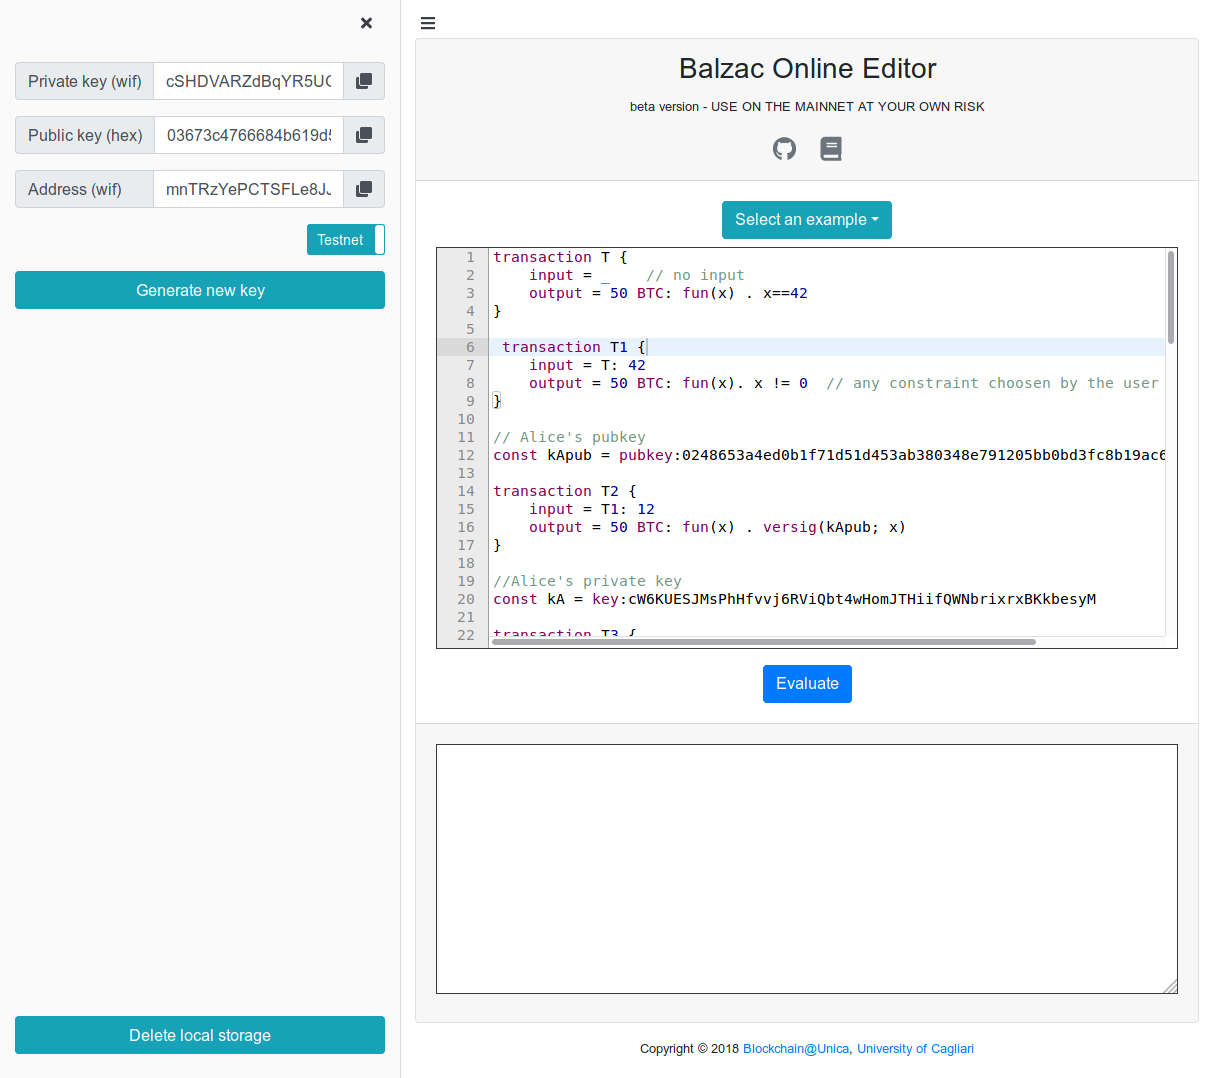
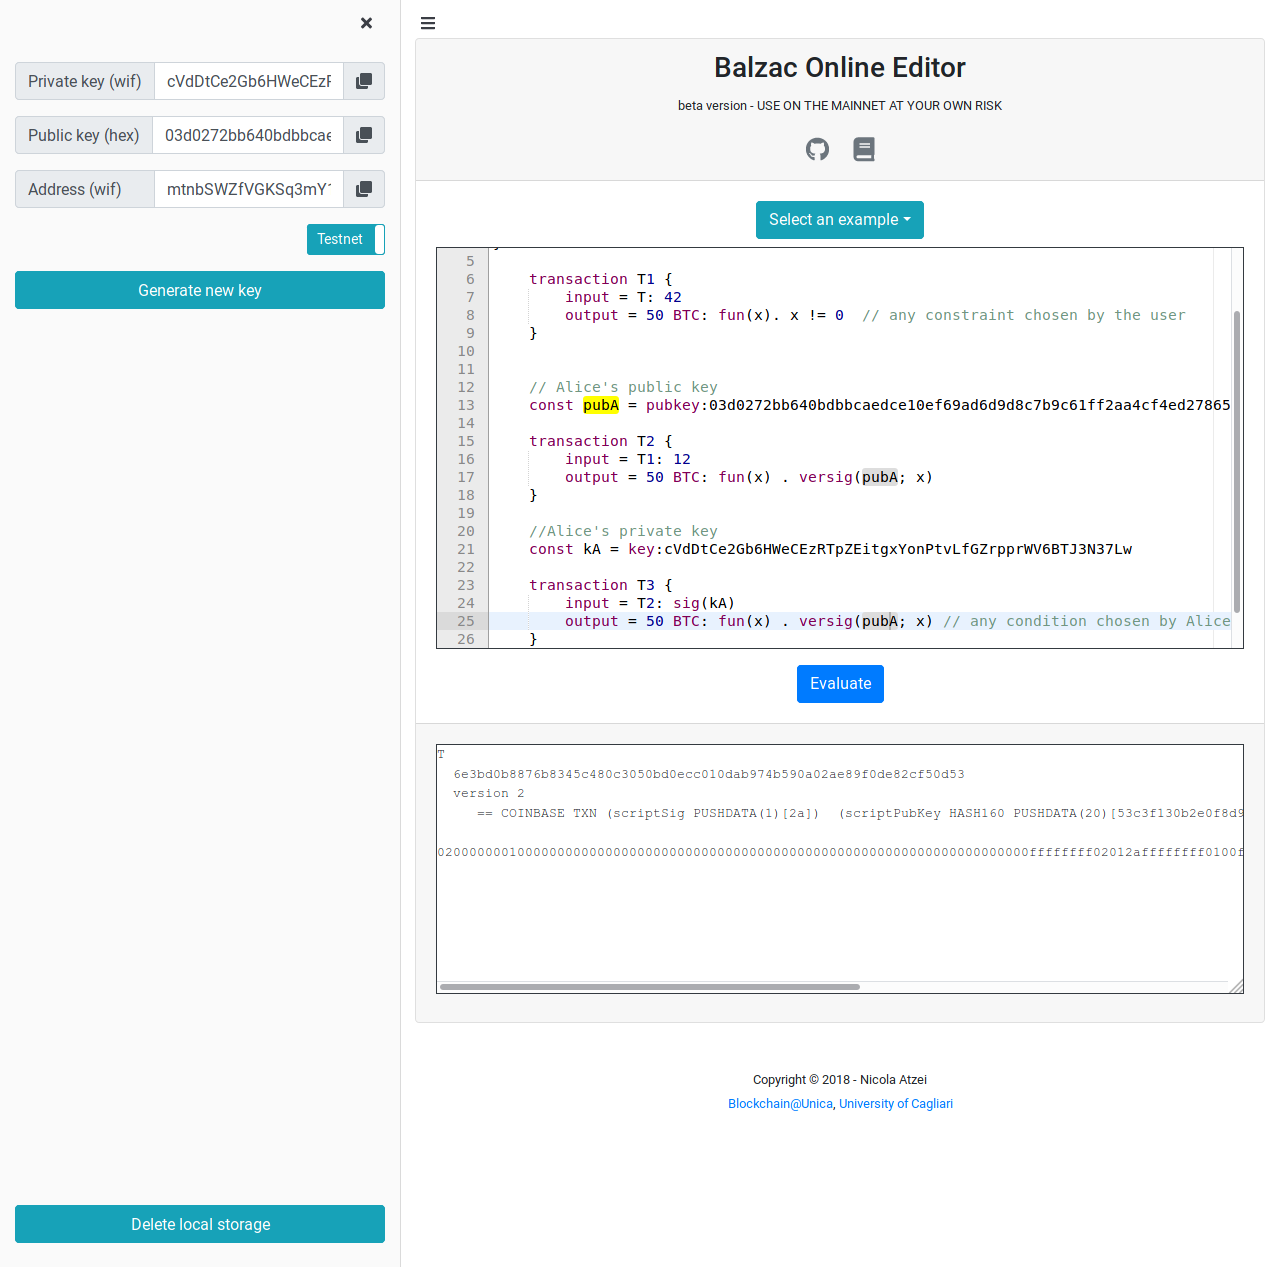
Update Balzac in a Nutshell

diff --git a/docs/source/nutshell.rst b/docs/source/nutshell.rst
@@ -31,18 +31,18 @@ An example of transaction with no inputs is the following:
 
     transaction T {
         input = _    // no input 
-        output = 50 BTC: fun(x) . x==42
+        output = 50 BTC: fun(x) . x == 42
     }
 
-The output field of transaction ``T`` contains a value, ``50 BTC``, and 
-an *output script*,  ``fun(x) . x==42``.
+The output field of transaction ``T`` contains a value, :btm:`50 BTC`, and 
+an *output script*,  :btm:`fun(x) . x==42`.
 This means that  50 bitcoins will  be transferred to any transaction
-which provides a *witness*  ``x``  such that ``x == 42``.
+which provides a *witness*  ``x``  such that :btm:`x == 42`.
 
 To append ``T`` to the Bitcoin blockchain,
 the placeholder ``_`` for the input must be replaced with the identifier
 of an unspent transaction already on the blockchain,
-which has at least 50 BTC.  
+which has at least 50 BTC.
 
 You can use the `web editor <http://blockchain.unica.it/balzac/>`_  to write
 |langname| transactions,   to check their syntax, and to compile them  into
@@ -56,45 +56,26 @@ To generate transactions for the main network (mainnet), one must specify the ne
     network mainnet  // default is testnet
 
 
-For instance, let us paste transaction ``T`` into the editor and then let us add command ``eval T`` to it. 
+For instance, let us paste transaction ``T`` into the editor and then let us add command :btm:`eval T` to it. 
 Now, if we hit the button [Compile], the web editor shows in the output box the transaction ``T``  in  Bitcoin (testnet) serialization format.
 
 .. figure:: _static/img/compiling_t.png
-    :scale: 100 %
+    :scale: 75 %
     :class: img-border
     :align: center
 
 The serialized transaction can  be sent to the Bitcoin network using the Bitcoin client command ``bitcoin-cli sendrawtransaction``.
-Before sending it, the unspecified input must be substituted
-by an actual transaction identifier, as in the following example:
+However, in order to be published, ``T`` must redeem a real transaction on the blockchain.
+In |langname|, it is possible to define a transaction using its hex format, for example:
 
 .. code-block:: btm
 
-        //actual Bitcoin transaction identifier 
-        const T_ref = txid:<actualBitcoinIdentifier>
+        const realT = tx:0000fa00120... // Hex of a real transaction
 
-        transaction T_alt {
-               input = T_ref: _
-               output = 50 BTC: fun(x) . x==42
+        transaction T {
+               input = realT: ...       // witness to redeem realT
+               output = 50 BTC: fun(x) . x == 42
         }
-
-.. Tip ::
-
-    Transaction identifiers have the same format *both in the testnet and
-    in the mainnet*. Our tool fetches the transaction body
-    by looking into the specified :btm:`network`. 
-    A common mistake is to look for a transaction id into the wrong
-    network.
-
-    Alternatively, you can fetch the body of a transaction on your
-    own and use it as in the following example:
-
-    .. code-block:: btm
-
-        const T_ref = tx:0200000001644bbaf0....c00000000
-
-
-    Please note the difference between prefixes ``tx:`` and ``txid:``.
 
 .. _label_transaction_redeeming:
 
@@ -111,16 +92,16 @@ redeem it with the following transaction:
         output = 50 BTC: fun(x). x != 0  // any constraint chosen by the user
     }
 
-Transaction ``T1`` redeems  ``T`` by indicating it  in the  ``input`` field,
+Transaction ``T1`` redeems  ``T`` by indicating it  in the  :btm:`input` field,
 and by providing the number 42 as *witness*. 
-The value 42 is the actual parameter which  replaces the formal parameter ``x`` in the  output script :code:`fun(x) . x == 42`,  and makes the script evaluate to true.
+The value 42 is the actual parameter which  replaces the formal parameter ``x`` in the  output script :btm:`fun(x) . x == 42`,  and makes the script evaluate to true.
 Any other witness would make the script evaluate to false,
 and would prevent the transaction ``T1`` from being added to the blockchain. 
 A transaction cannot be spent twice:
 hence, once ``T1`` is on the blockchain,
 no other transaction having ``T`` as input can be appended.
 
-Note that ``T1`` is redeeming exactly the ``50 BTC`` deposited in ``T``:
+Note that ``T1`` is redeeming exactly the :btm:`50 BTC` deposited in ``T``:
 in practice, to be able to append ``T1`` to the blockchain,
 the value in output of a transaction must be strictly less
 than the value in input.
@@ -149,22 +130,19 @@ redeemable only by user Alice:
 
 .. code-block:: btm
 
-    // Alice's address
-    const addrA = address:mpkcxdWqT8WVeiWzMKBQosn5t8LMYL7Z3c 
+    // Alice's public key
+    const pubA = pubkey:03d0272bb640bdbbcaedce10ef69ad6d9d8c7b9c61ff2aa4cf4ed27865d287c224 
 
     transaction T2 {
         input = T1: 12
-        output = 50 BTC: fun(x) . versig(addrA; x)
+        output = 50 BTC: fun(x) . versig(pubA; x)
     }
 
 
-The constant ``addrA`` declares Alice's *address*:
-basically, it is the hash of Alice's public key.
-The address is prefixed by the keyword ``address:`` to indicate its type.
-The format is *wif* :doc:`Wallet Import Format types <types>` [#f1]_.
-Users may generate as many addresses as they want.
+The constant ``pubA`` declares Alice's *public key*.
+Users may generate as many public keys as they want.
 
-The :ref:`predicate <label_c_functions>` ``versig(addrA; x)``
+The :ref:`predicate <label_c_functions>` :btm:`versig(pubA; x)`
 in the output script of ``T2`` is true  if ``x`` is a valid signature
 of the transaction which redeems ``T2``, 
 computed with Alice's private key. 
@@ -173,17 +151,15 @@ The transaction ``T2`` can be redeemed by a transaction ``T3`` made as follows:
 
 .. code-block:: btm
 
-    // Alice's address
-    const addrA = address:mpkcxdWqT8WVeiWzMKBQosn5t8LMYL7Z3c
-    //Alice's private key    
-    const kA = key:cQu93pLnEtyhkEMUxiRHP2ocPXi1LRbnZZ3PLz2gp6yu11tWKUaW
+    // Alice's private key    
+    const kA = key:cVdDtCe2Gb6HWeCEzRTpZEitgxYonPtvLfGZrpprWV6BTJ3N37Lw
 
     transaction T3 {
         input = T2: sig(kA)
-        output = 50 BTC: fun(x) . versig(addrA; x) // any condition chosen by Alice
+        output = 50 BTC: fun(x) . versig(pubA; x) // any condition chosen by Alice
     }
 
-The witness ``sig(kA)`` is the :ref:`signature <label_c_functions>`
+The witness :btm:`sig(kA)` is the :ref:`signature <label_c_functions>`
 of transaction ``T3`` (without considering the witness itself)
 using the private key ``kA``.
 
@@ -191,7 +167,7 @@ You can use the online form on the sidebar to generate new addresses and keys.
 
 
 .. figure:: _static/img/sidebar.png
-    :scale: 70 %
+    :scale: 70%
     :class: img-border
     :align: center  
 
@@ -205,18 +181,14 @@ For instance, the amount of bitcoins in ``T4`` is split in two parts:
 
 .. code-block:: btm
 
-    //Alice's private key
-    const kA = key:cQu93pLnEtyhkEMUxiRHP2ocPXi1LRbnZZ3PLz2gp6yu11tWKUaW
-    // Alice's address
-    const addrA = address:mpkcxdWqT8WVeiWzMKBQosn5t8LMYL7Z3c 
-    //Alice's other address
-    const addrA2 = address:n3A4KGgZD9bW6k2pPccN4rUfX3CgYCPERb
+    // Bob's other public key
+    const pubB = pubkey:0289654c430032f20f8464a84a1f9b3289ceaff8d6cd93c9b654e59a8c5a1cc1b0
 
     transaction T4 {
         input = T3:sig(kA) 
         output = [
-            40 BTC: fun(x) . versig(addrA; x);
-            10 BTC: fun(x) . versig(addrA2; x)
+            40 BTC: fun(x) . versig(pubA; x);
+            10 BTC: fun(x) . versig(pubB; x)
         ]
     }
 
@@ -229,19 +201,15 @@ For instance:
 
 .. code-block:: btm
 
-    // Alice's address
-    const addrA = address:mpkcxdWqT8WVeiWzMKBQosn5t8LMYL7Z3c 
-        //Alice's private key
-    const kA = key:cQu93pLnEtyhkEMUxiRHP2ocPXi1LRbnZZ3PLz2gp6yu11tWKUaW
-    //Alice's second private key
-    const kA2= key:cNzPt3Wad4ymq15AZ2omAmmSv5DBe99pRgsUBCQoeFPeeP57VJkm
+    // Bob's private key    
+    const kB = key:cVifQzXqqQ86udHggaDMz4Uq66Z7RGXJo5PdVjzRP12H1NDCFsLV
 
     transaction T5 {
         input = [
             T4@0: sig(kA);
-            T4@1: sig(kA2)
+            T4@1: sig(kB)
         ]
-        output = 50 BTC: fun(x) . versig(addrA; x)
+        output = 50 BTC: fun(x) . versig(pubA; x)
     }
 
 which calculates  the signature of  transaction ``T5``
@@ -253,39 +221,30 @@ Parametric transactions
 """""""""""""""""""""""
 Transaction definition can be parametric.
 For instance, in the following example ``T6`` takes one parameter
-of type ``pubkey`` and uses it in the output script.
+of type :btm:`pubkey` and uses it in the output script.
 
 
 .. code-block:: btm
 
     // parametric transaction
-    transaction T6(k:pubkey) {
+    transaction T6(pub) {
         input = _
-        output = 1BTC: fun(x). versig(k;x)
+        output = 1BTC: fun(x). versig(pub;x)
     }
 
 To be able to evaluate ``T6``, one must instantiate that one parameter, like:
     
 .. code-block:: btm
 
-    // Alice's public key
-    const kApub = pubkey:037d33fad6067e7a76671be01f697c7667d81be0aef334385cdab2b6b8f9f484c1    
-    eval T6(kApub)
+    eval T6(pubA)
 
 One can also use T6 in the definition of its redeeming transaction, as follows:
     
 .. code-block:: btm
 
-    // Alice's public key
-    const kApub = pubkey:037d33fad6067e7a76671be01f697c7667d81be0aef334385cdab2b6b8f9f484c1
-    //Alice's private key
-    const kA = key:cQu93pLnEtyhkEMUxiRHP2ocPXi1LRbnZZ3PLz2gp6yu11tWKUaW
-    // Bob's public key
-    const kBpub = pubkey:03a5aded4cfa04cb4b49d4b19fe8fac0b58802983018cdd895a28b643e7510c1fb
-
     transaction T7 {
-        input = T6(kApub):sig(kA)
-        output = 1BTC: fun(x). versig(kBpub;x)
+        input = T6(pubA): sig(kA)
+        output = 1BTC: fun(x). versig(pubB;x)
     }
 
 In case the parameter is a witness, it can be left unspecified as long
@@ -295,8 +254,8 @@ as it is needed, using the symbol ``_``. For instance, transaction
 .. code-block:: btm
 
     transaction T8(s:signature, n:int) {
-        input = T7:s 
-        output = 1BTC: fun(x, m). versig(kApub;x) && m == sha256( n )
+        input = T7: s 
+        output = 1BTC: fun(x, m). versig(pubA;x) && m == sha256( n )
     }
     //transaction with empty signature
     const T9 = T8(_, 4)
@@ -308,12 +267,12 @@ Indeed:
     
 .. code-block:: btm
 
-    transaction T9_bis(n:int) {
-        input = T6(kApub):sig(kA)
-        output = 1BTC: fun(x, m). versig(kBpub;x) && m == sha256( n )
+    transaction T8_bis(n:int) {
+        input = T7: sig(kB)
+        output = 1BTC: fun(x, m). versig(pubB;x) && m == sha256( n )
     }
-    //sig(kA) is calculated now
-    eval T9_bis(4)
+    
+    eval T9_bis(4)  //sig(kA) is calculated now
 
 
 .. rubric:: References
